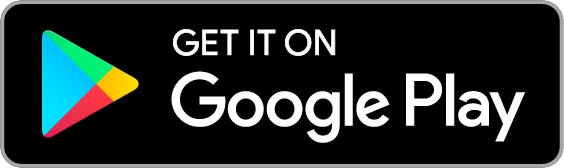
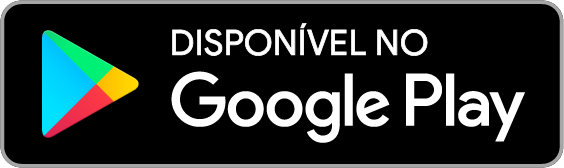
add get apps and visual improvements

Changed region(s): [[0.3014, 0.119, 0.7837, 0.3571]]

diff --git a/style.css b/style.css
@@ -46,7 +46,6 @@ body{
     justify-content: space-around;
     flex-direction: column;
     width: 50%;
-    padding: 2.9rem 2rem;
 }
 .group{
     display: flex;
@@ -54,17 +53,24 @@ body{
     align-items: center;
     flex-direction: column;
     background-color: white;
-    width: 100%;
-    padding: 1.3rem 0;
+    width: 61%;
     border: 1px solid lightgray;
     margin: 8px;
 }
- .group:nth-child(1){
+
+.group:nth-child(1){
     min-height: 19rem;
+    padding-top: 1.9rem;
+    padding-bottom: 0;
+}
+
+.group:nth-child(2){
+    padding: 1.3rem 0;
 }
 
 .ig-logo{
     height: 3rem;
+    margin-bottom: 32px;
 }
 
 input{
@@ -72,6 +78,7 @@ input{
     padding: 10px 0px;
     margin-bottom: 4px;
     border: 1px solid #ececec;
+    font-size: 13.33px;
 }
 input:focus {
     outline: none !important;
@@ -98,28 +105,54 @@ input:focus {
     }
 }
 
-.get-apps{
+.get-the-app{
     display: flex;
     justify-content: center;
     align-items: center;
-
+    flex-direction: column;
+    width: 65%;
+    padding: 1rem 0;
 }
 
-.separate{
-    margin-top: 8px;
+.get-app{
+    font-size: 14px;
+}
+
+.download{
+    display: flex;
+    width: 100%;
+    justify-content: space-evenly;
+    align-items: center;
+    padding: 1rem;
+}
+
+.app-download{
+    height: 3rem;
+    width: 10rem;
+    background-size: cover;
+}
+
+.app-download:nth-child(1){
+    background-image: url('./img/apple-button.png');
+}
+
+.app-download:nth-child(2){
+    background-image: url('./img/googleplay-button.png');
 }
 
 .fb-login{
-    margin-top: 20px;
+    margin-top: 29px;
     justify-content: center;
     align-items: center;
     color:#385185;
+    padding: 0;
 }
 
 .forgot-pwd{
-    margin:0;
     font-size: 12px;
     color: #00376b!important;
+    padding-top: 18px;
+    padding-bottom: 14px;
 }
 
 input::-webkit-input-placeholder{
@@ -130,14 +163,21 @@ input::-webkit-input-placeholder{
     color:white;
     background-color: #0095f6;
     border: 0;
-    padding: 10px 127px;
+    width: 245px;
 }
 
 .input-login{
-    padding: 10px 60px;
+    width: 245px;
+    padding: 10px 4px;
+    height: 38px;
 }
 
 .create-account{
     color: #0095f6 !important; 
 }
 
+.separate{
+    font-size: 13px;
+    color: #8e8e8e;
+    margin-top: 16px;
+}

diff --git a/index.html b/index.html
@@ -26,17 +26,17 @@
                         OU
                     </p>
                         <div class="fb-login">
-                            <a href="#" class="fb-text"><i class="fa fa-facebook-official"></i> Entrar com o facebook</a>
+                            <a href="#" class="fb-text"><i class="fa fa-facebook-official"></i> Entrar com o facebook</a>                            
                         </div>     
                 </div>
-                <a href="#" class="forgot-pwd">Esqueceu a senha?</a>
+                <a href="#" class="forgot-pwd">Esqueceu a senha?</a>    
             </div>
             <div class="group">
                 <p>Não tem uma conta? <a href="#" class="create-account">Cadastre-se</a></p>
             </div>
-            <div class="get-apps">
-                <p class="get-the-apps">Obtenha o aplicativo.</p>
-                <div class="img-apps">
+            <div class="get-the-app">
+                <p class="get-app">Obtenha o aplicativo.</p>
+                <div class="download">
                     <a href="#" class="app-download"></a>
                     <a href="#" class="app-download"></a>
                 </div>

diff --git a/README.md b/README.md
@@ -1,1 +1,6 @@
-#Initial page Instagram!
+# Página inicial do Instagram! (https://www.instagram.com/)
+
+Projeto do Bootcamp HTML Web Developer pela Digital Innovation One (DIO), com alteração da área de continue para a área de login. Ainda em desenvolvimento, com a intenção de ir aprimorando conforme o tempo, na tentativa de fazer uma página totalmente interativa e mais semelhante a original!
+
+- [x] 11/01/21 - Iniciação do site, criação da página inicial
+- [x] 12/01/21 - Adição do "get apps" + melhorias visuais
